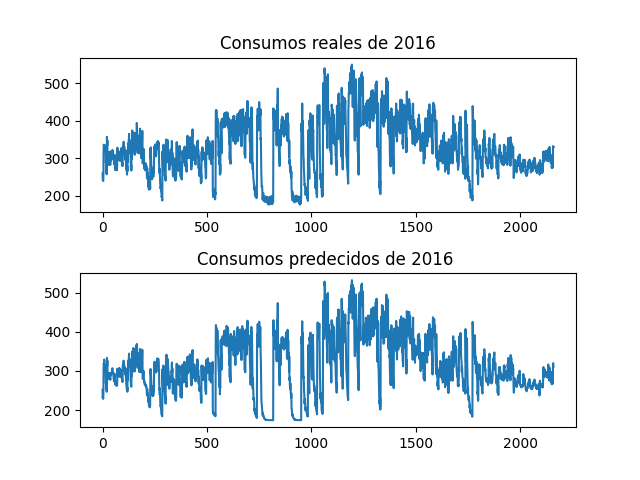
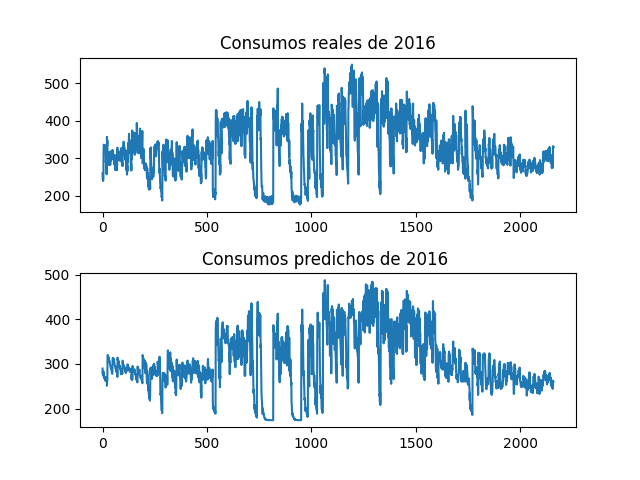
Readme acabado y electricidad probada una vez mas

diff --git a/Python/electricidad.py b/Python/electricidad.py
@@ -120,7 +120,7 @@ estimator=KerasRegressor(build_fn=baseline_model,epochs=100,batch_size=10,verbos
 kfold = KFold(n_splits=3)
 
 results = cross_val_score(estimator, X_train, y_normtrain, cv=kfold)
-print("Baseline: %.2f (%.2f) MSE" % (results.mean(), results.std()))
+#print("Baseline: %.2f (%.2f) MSE" % (results.mean(), results.std()))
 print("---Training finished---")
 # Part 3 - Making the predictions and evaluating the model
 
@@ -146,16 +146,16 @@ myfullbd.sort_values(by='datetime')
 
 
 
-fullbd=read_csv('fullbd.csv')
+fullbd=pd.read_csv('fullbd.csv')
 
 
 fullrealconsums=fullbd['electricity_consumption'].values
 predconsums=myfullbd['electricity_consumption'].values
 
-#Con esto genero comparaciones graficas para ver como ha predecido 
+#Con esto genero comparaciones graficas para ver como ha predicho
 #los consumos de cada hora de los ultimos 7-8 dias de cada mes de este año
 
-"""
+
 year=2015
 
 for mes in range(1,13):
@@ -170,14 +170,14 @@ for mes in range(1,13):
 
 			ax[0].plot(realyear)
 			ax[0].set_title('Consumos de electricidad reales de %i, mes %i' % (year,mes))
-			ax[1].set_title('Consumos de electricidad predecidos de %i, mes %i' % (year,mes))
+			ax[1].set_title('Consumos de electricidad predichos de %i, mes %i' % (year,mes))
 			ax[1].plot(predyear)
 			plt.savefig('comp%i%i.png' % (year,mes))
 			plt.close("all")
-"""
+
 
 #Para generar graficas anuales
-"""
+
 for year in range(2013,2018):
 
 		realyear=fullbd.loc[(fullbd['Year']==year) & (fullbd['Day']>23)  ]['electricity_consumption' ].values
@@ -190,8 +190,8 @@ for year in range(2013,2018):
 
 			ax[0].plot(realyear)
 			ax[0].set_title('Consumos reales de %i' % year)
-			ax[1].set_title('Consumos predecidos de %i ' % year)
+			ax[1].set_title('Consumos predichos de %i ' % year)
 			ax[1].plot(predyear)
 			plt.savefig('comp%i.png' % (year))
 			plt.close("all")
-"""
+
